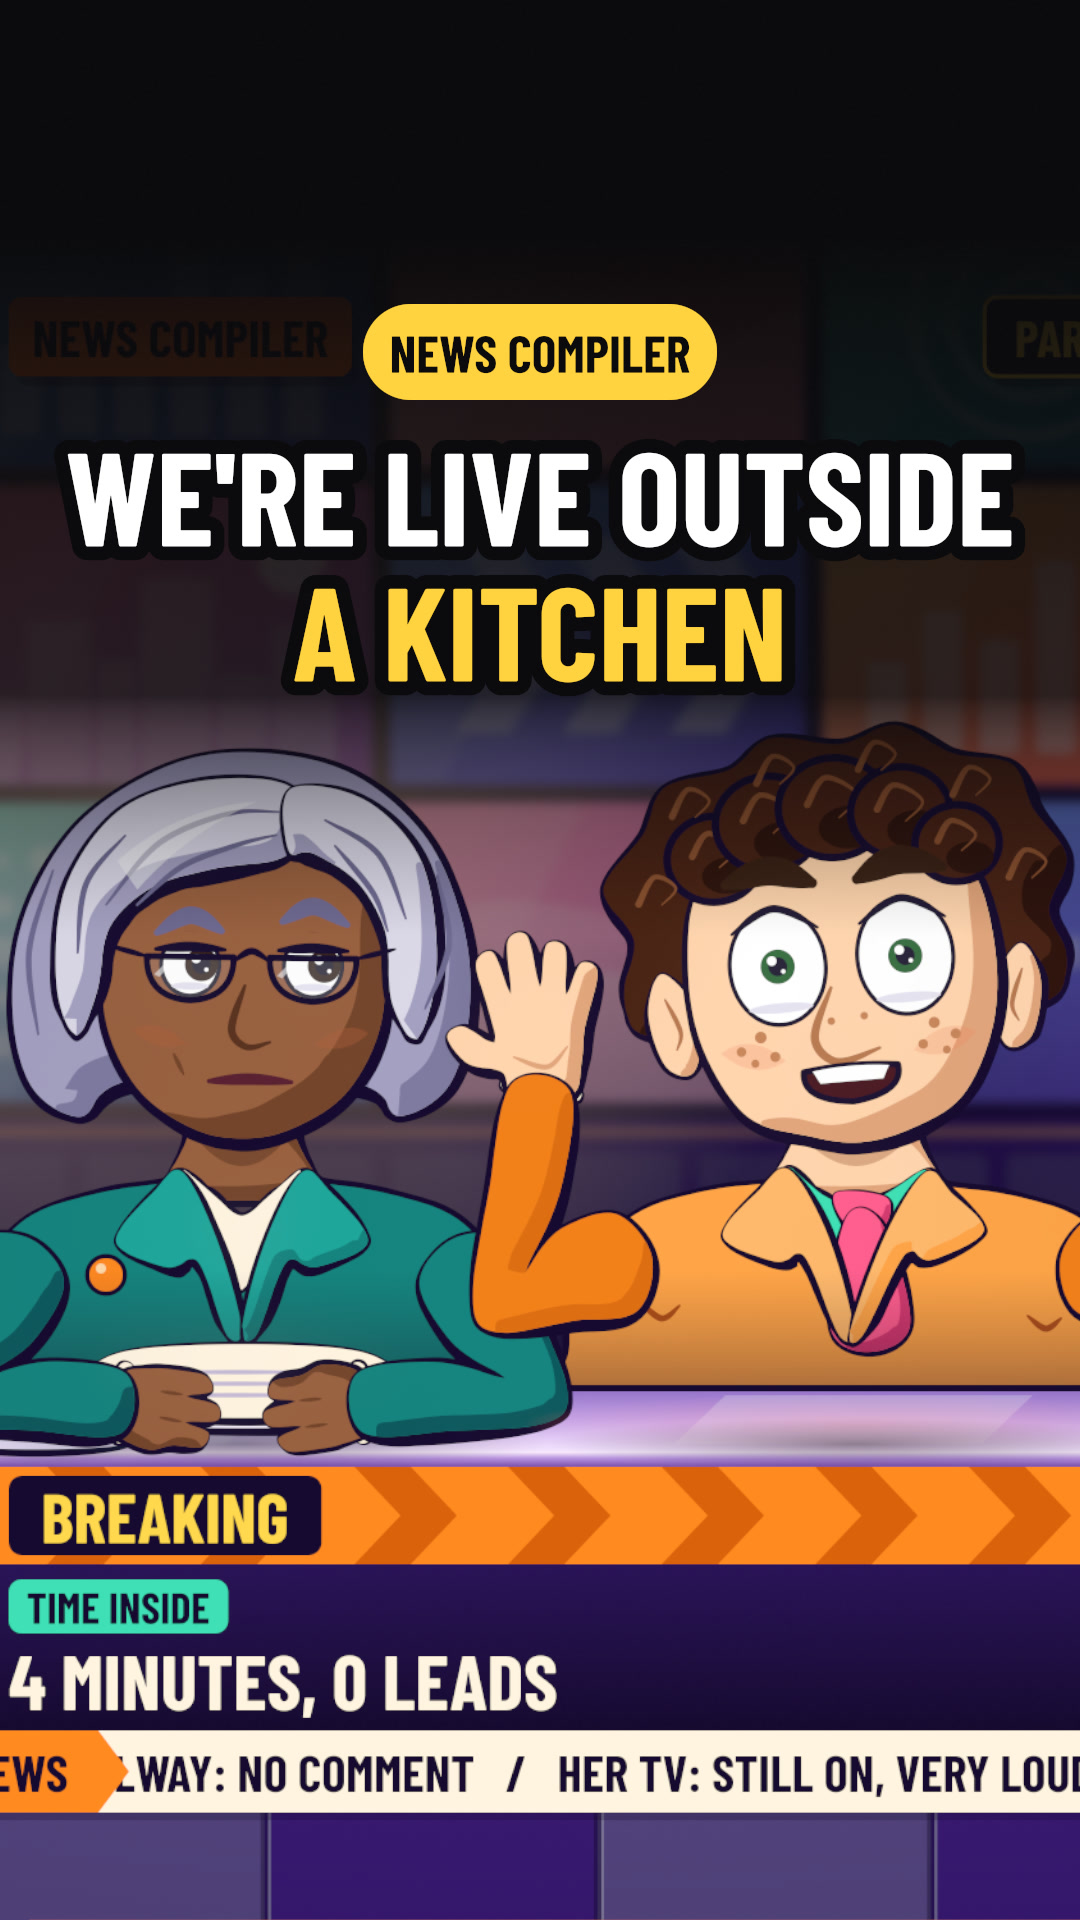
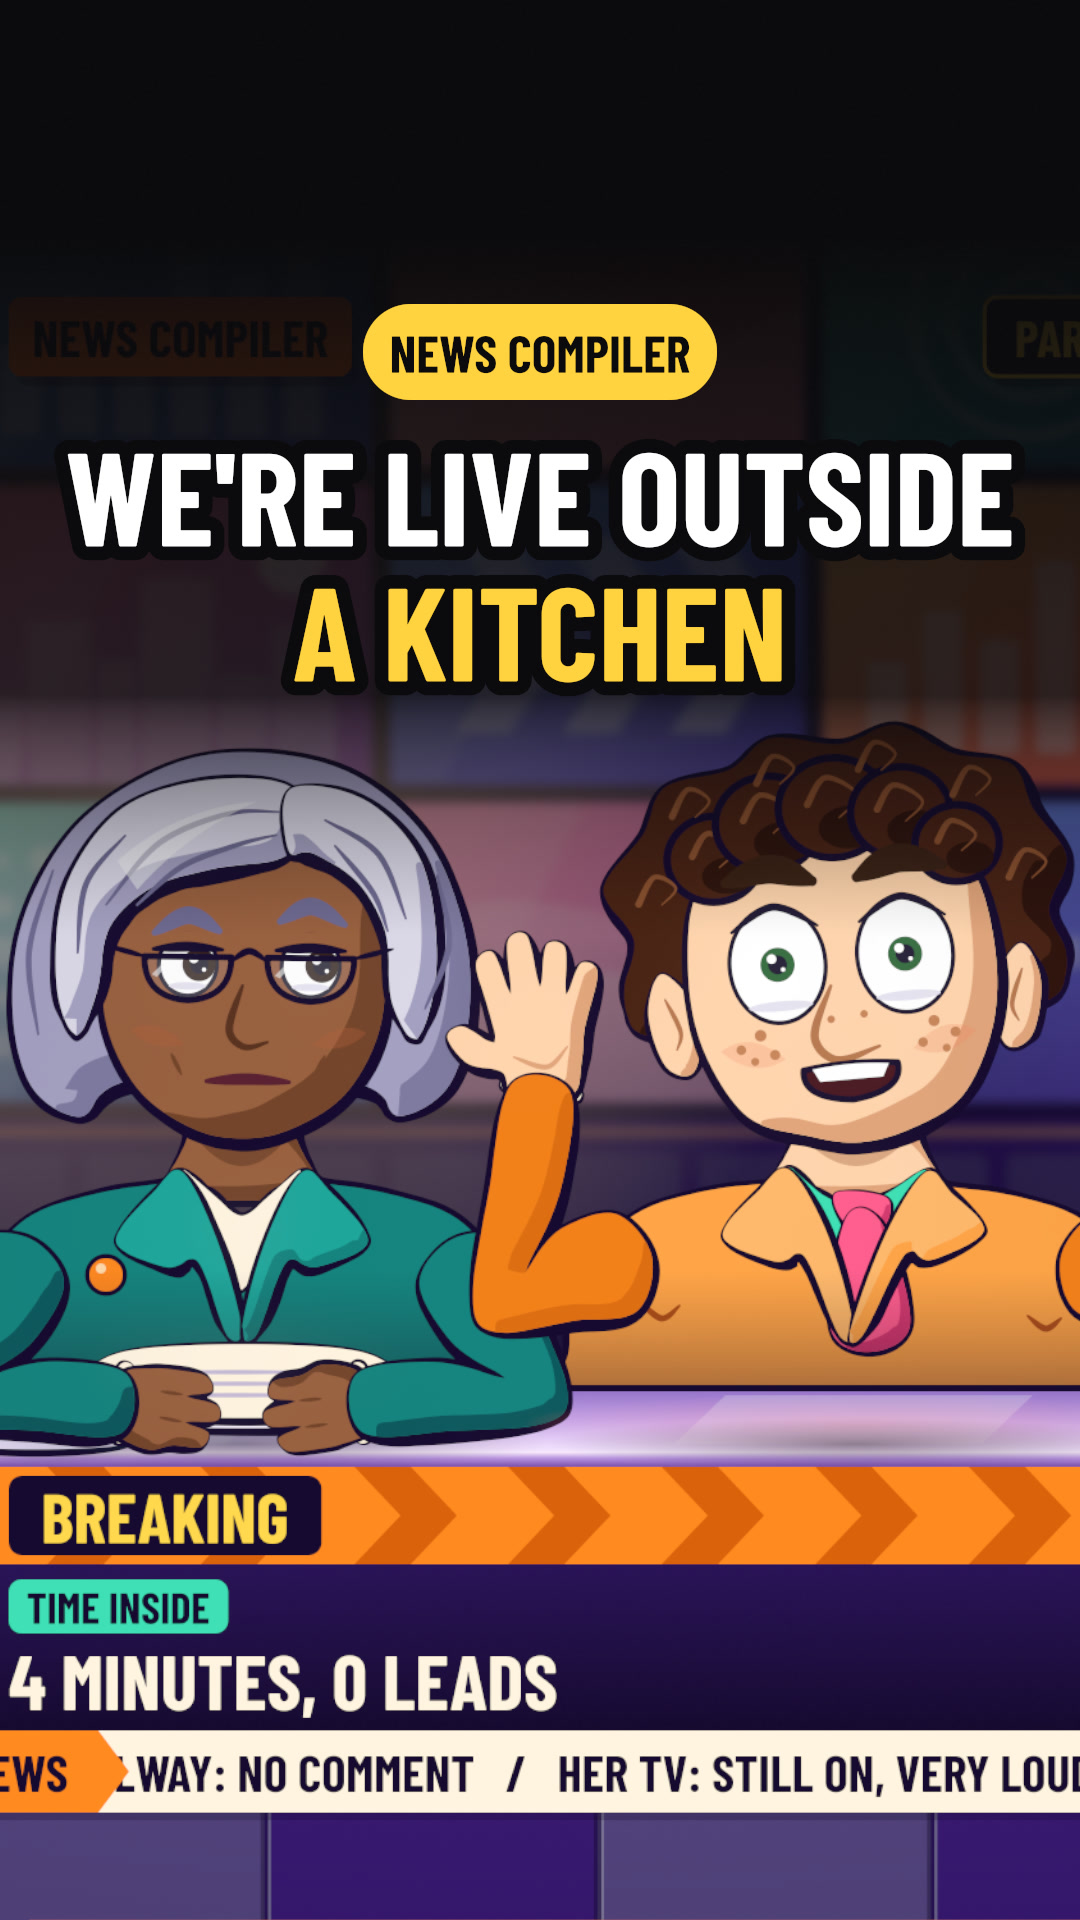
feat(news): draw came-in-for on version 3 of the anchors
Pin news-vera and news-gus at 3, as arc4d3 asked, redo the cover from the
version 3 master, and record the approved live door in the notes. The
takes, the timing and the words do not change.

Changed region(s): [[0.6722, 0.4375, 0.8861, 0.5938], [0.1222, 0.5, 0.3361, 0.5312]]

diff --git a/episodes/pilots/came_in_for_data.py b/episodes/pilots/came_in_for_data.py
@@ -42,7 +42,7 @@ NARRATION = "Voiced with ElevenLabs premade voices Matilda and Charlie; an origi
 NOTE = "ElevenLabs premade voices Matilda and Charlie at their natural pace; no reference-voice cloning."
 TINTS = {"vera": news_kit.CREAM, "gus": news_kit.TANGERINE}
 MOUTH = replace(sketch.MOUTH_STYLE, spelling=True, close_bilabials=True, lead=0.04, min_rest=0.12)
-VERSIONS = {"news-vera": 2, "news-gus": 2}
+VERSIONS = {"news-vera": 3, "news-gus": 3}
 DOOR = "KITCHEN"
 SMALL = 0.35  # of the full voice: the same word he shouted, with the air gone out of it
 SLAM = 0.35  # seconds into the held beat at which the door shuts: long enough to see it open first

diff --git a/pilots/news/came-in-for/notes.md b/pilots/news/came-in-for/notes.md
@@ -27,11 +27,11 @@ has no name, and the joke is on Gus. Nothing is added to what the show has said 
 
 ## Parts reused
 
-Version 2 of the show from `srstudio.news_inked`: `news-set`, `news-desk`, `news-vera`, `news-gus`, `news-bug`,
-`news-parody-tag`, `news-lower-third`, `news-banner`, `news-ticker`, `news-captions`. The Toon sketch build and
+The show from `srstudio.news_inked`: `news-vera` and `news-gus` at version 3, and at version 2 `news-set`, `news-desk`,
+`news-bug`, `news-parody-tag`, `news-lower-third`, `news-banner`, `news-ticker`, `news-captions`. The Toon sketch build and
 recording road, the signature cactus and code, the Thumbnail and InstagramPost tools, the sting and the foley. No
 character, set or prop of Okayville or Mind.
 
-## Parts new (all proposed)
+## Parts new
 
-`news-live-door`: the live inset of a door, which can slam shut.
+`news-live-door`: the live inset of a door, which can slam shut. Approved by arc4d3.
